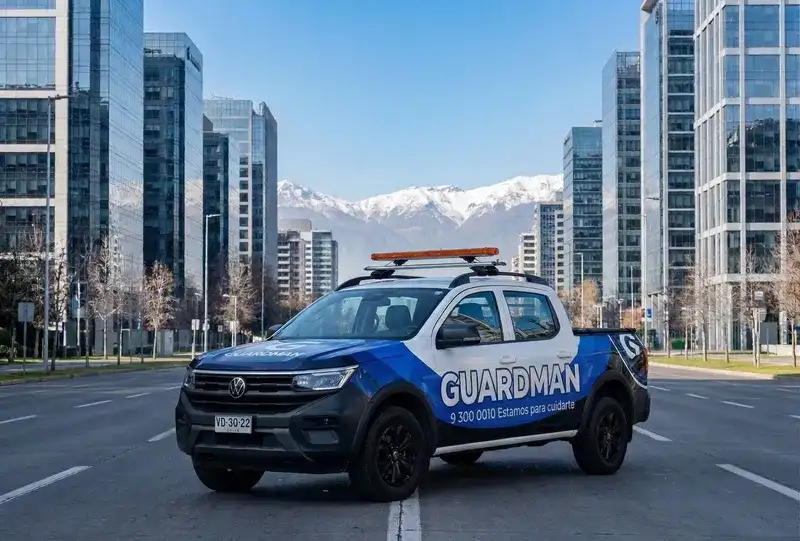
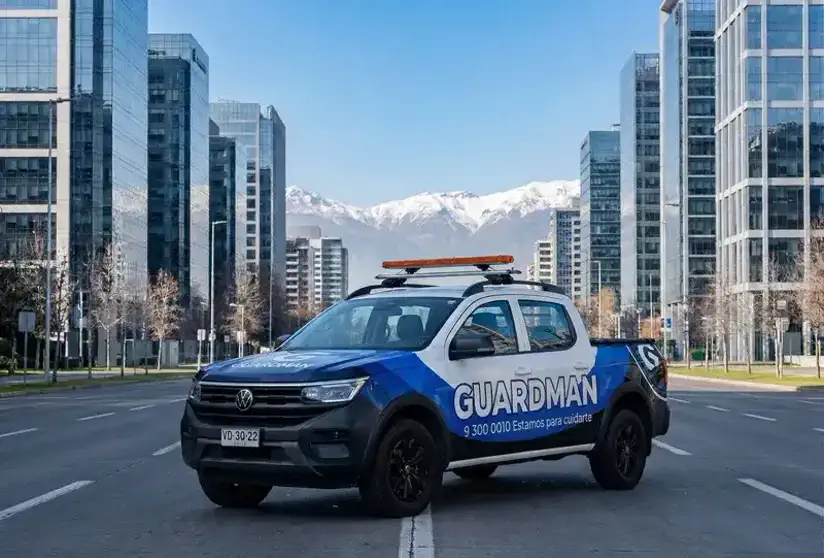
perf(pr3): A11y 100 + transfer diet quick wins
3.1 Contraste → A11y 100 (6 elementos con ratio 3.67-3.76)
- Token nuevo --gm-accent-text: #1D4ED8 (azul-700, ratio ~7:1 sobre blanco).
- Alias --accent-text: var(--gm-accent-text) en design-tokens.css.
- Aplicado a: .section-label, .card-link (site.css), .step-cta (components.css).
- ?v=20260926 → ?v=20260927 para invalidar cache de site.css/dark.css.

3.2 Cards srcset (4 grandes regeneradas, 8 pequeñas sin srcset)
- service-{slug}-400.webp + service-{slug}-732.webp para los 4 grandes
  (aseo, guard-pod, guard-pod-intro, seguridad-deportiva; fuente >=732w).
- SRCSET_SLUGS whitelist hardcoded en index.astro (mantenible, no se regenera
  para los 8 pequeños cuya fuente <500w porque re-escalado los empeora).
- Markup condicional: srcset/sizes solo si s.hasSrcset; resto usa source tal cual.
- Desktop savings estimado: ~120 KiB (aseo -56.6, deportiva -48.2, guard-pod -12.6, intro -4.7).
- Mobile pide 400w (~10 KiB); desktop pide 732w (~22 KiB).

3.3 Poster Guardpod regenerado (16.7 KiB, savings 18.1 KiB)
- public/videos/guardpod-home-poster.webp: 1280×1718 → 824×463 (16:9 correcto).

3.4 nosotros_seccion.webp regenerado (44.3 KiB, savings 1.4 KiB)
- 800×541 → 824w q65. Marginal porque la fuente ya estaba cerca del óptimo.

3.5 Logo PNG → WebP (-7.4 KiB)
- logo-byn-1x.webp (3.9 KiB vs 6.1 PNG) + logo-byn-2x.webp (8.4 vs 13.6 PNG).
- srcset en Header.astro + Footer.astro apunta a .webp; logo-byn.png se
  mantiene como fallback.
[…]

diff --git a/public/styles/site.css b/public/styles/site.css
@@ -74,7 +74,7 @@ nav{display:none;align-items:center;gap:32px}@media(min-width:1024px){nav{displa
 
 /* ── Section labels / titles ── */
 section{padding:80px 0}@media(max-width:767px){section{padding:56px 0}}
-.section-label{display:inline-flex;align-items:center;gap:6px;font-size:13px;font-weight:600;text-transform:uppercase;letter-spacing:.05em;color:var(--accent);margin-bottom:8px}
+.section-label{display:inline-flex;align-items:center;gap:6px;font-size:13px;font-weight:600;text-transform:uppercase;letter-spacing:.05em;color:var(--accent-text);margin-bottom:8px}
 .section-title{font-size:clamp(28px,4vw,40px);font-weight:800;color:var(--fg);line-height:1.15;margin-bottom:12px;letter-spacing:-0.015em}
 .section-subtitle{font-size:18px;color:var(--muted);max-width:600px;line-height:1.5}
 
@@ -209,7 +209,7 @@ footer.site-footer{background:var(--fg);color:#fff;padding:64px 0 32px}
 .card-tag{position:absolute;top:12px;right:12px;font-size:11px;font-weight:700;padding:4px 10px;border-radius:var(--radius-full);text-transform:uppercase;letter-spacing:.03em}
 .card-body{padding:20px;flex:1;display:flex;flex-direction:column}.card-body h3{font-size:18px;font-weight:700;margin-bottom:8px;line-height:1.3}
 .card-body p{font-size:15px;color:var(--muted);line-height:1.55;flex:1}
-.card-link{margin-top:14px;font-size:13px;font-weight:600;color:var(--accent);display:inline-flex;align-items:center;gap:4px}.card-link:hover{color:var(--accent-hover)}.card-link svg{width:16px;height:16px;transition:transform .2s var(--ease)}.card-link:hover svg{transform:translateX(4px)}
+.card-link{margin-top:14px;font-size:13px;font-weight:600;color:var(--accent-text);display:inline-flex;align-items:center;gap:4px}.card-link:hover{color:var(--accent-hover)}.card-link svg{width:16px;height:16px;transition:transform .2s var(--ease)}.card-link:hover svg{transform:translateX(4px)}
 .card-icon{width:40px;height:40px;border-radius:var(--radius-md);background:var(--primary-pale);display:flex;align-items:center;justify-content:center;margin-bottom:12px;color:var(--primary)}.card-icon svg{width:20px;height:20px}
 
 /* ── Tags ── */

diff --git a/src/styles/design-tokens.css b/src/styles/design-tokens.css
@@ -15,6 +15,9 @@
   --gm-accent: #3B82F6;
   --gm-accent-hover: #2563EB;
   --gm-accent-soft: rgba(59, 130, 246, 0.1);
+  /* Accent on light text — ≥4.5:1 over white (WCAG AA normal text).
+     Use for section-label, card-link, step-cta, etc. — not for borders/hovers. */
+  --gm-accent-text: #1D4ED8;
 
   /* Semantic */
   --gm-success: #10B981;
@@ -137,6 +140,7 @@
   --primary-dark: var(--gm-primary-dark);
   --accent: var(--gm-accent);
   --accent-hover: var(--gm-accent-hover);
+  --accent-text: var(--gm-accent-text);
   --success: var(--gm-success);
   --warning: var(--gm-warning);
   --error: var(--gm-error);

diff --git a/public/scripts/main.js b/public/scripts/main.js
@@ -23,7 +23,11 @@
   document.querySelectorAll('.faq-item').forEach(function(item) {
     item.addEventListener('toggle', function() {
       if (item.open) {
-        item.scrollIntoView({ behavior: 'smooth', block: 'nearest' });
+        // Wrap in rAF to avoid forced reflow on the toggle handler (was 380ms desktop).
+        // Browser flushes layout on next frame instead of synchronously here.
+        requestAnimationFrame(function() {
+          item.scrollIntoView({ behavior: 'smooth', block: 'nearest' });
+        });
       }
     });
   });

diff --git a/src/styles/components.css b/src/styles/components.css
@@ -522,17 +522,17 @@ main { display: block; }
   display: inline-flex;
   align-items: center;
   gap: 6px;
-  color: var(--gm-accent);
+  color: var(--gm-accent-text);
   font-size: 13px;
   font-weight: 600;
   text-decoration: none;
   padding: 8px 16px;
-  border: 1px solid var(--gm-accent);
+  border: 1px solid var(--gm-accent-text);
   border-radius: 999px;
   transition: all 200ms ease;
 }
 .step-cta:hover {
-  background: var(--gm-accent);
+  background: var(--gm-accent-text);
   color: #fff;
 }
 .step-arrow {
